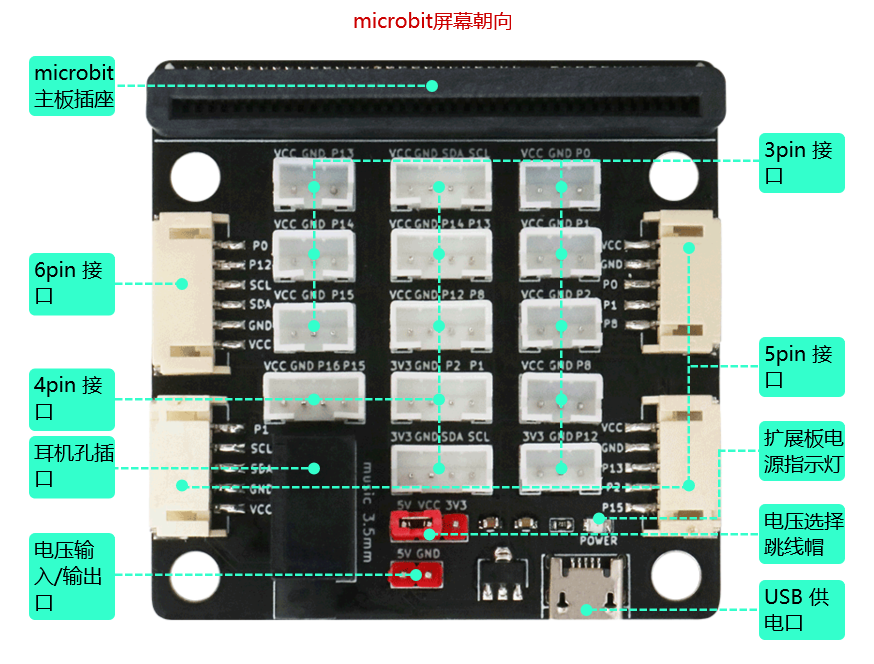
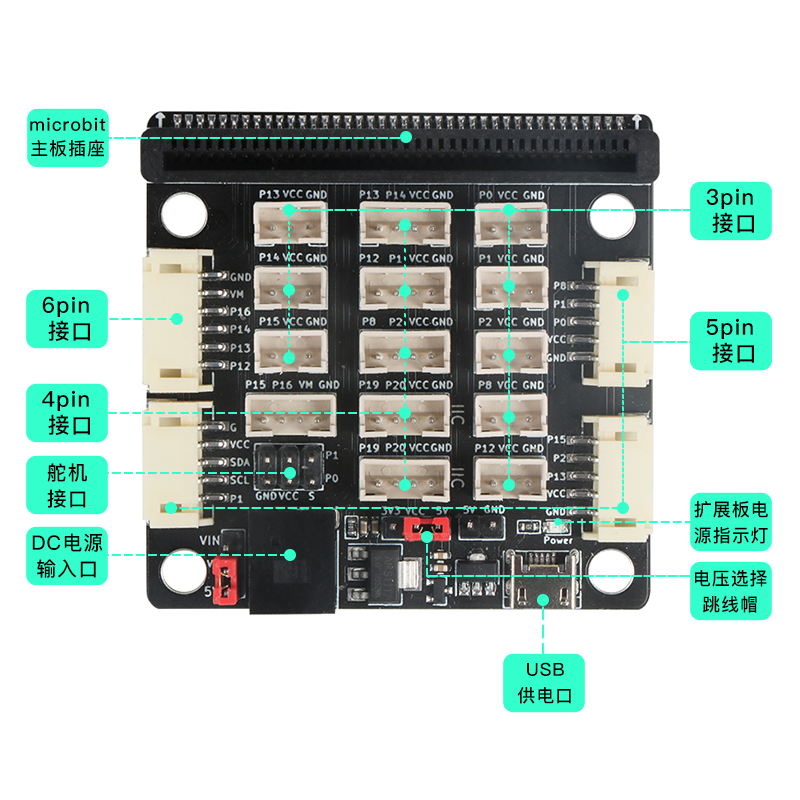
update sensorbit md

diff --git a/docs/micro_bit/sensorbit.md b/docs/micro_bit/sensorbit.md
@@ -1,6 +1,6 @@
 # Sensor:bit 简介
 
-什么是 Sensor:bit ？Sensor:bit 是一套为 Micro:bit 量身打造基于 PH2.0 接口的扩展板，Sensor:bit 扩展功能多样，包含八个 3pin 接口、六个 4pin 接口、三个 5pin 接口、一个 6pin 接口，对Micro:bit 可扩展接口进行了优化设计，使得 Sensor:bit 在 PH2.0 接口情况下可以连接更多的传感器。Sensor:bit 设计有一个  3.5mm 耳机插座，当把耳机插头插入、可以通过对音乐模块的编程收听歌曲。在电源设计方面，Sensor:bit 设计有两种供电方式：第一种是通过 micro usb 接口供电；另一种是通过连接在电源的杜邦线供电。Sensor:bit 设计有两种可选电压：5V 和 3V3，可以通过跳线帽选择不同的电压给扩展板接口供电。
+什么是 Sensor:bit ？Sensor:bit 是一套为 Micro:bit 量身打造基于 PH2.0 接口的扩展板，Sensor:bit 扩展功能多样，包含八个 3pin 接口、六个 4pin 接口、三个 5pin 接口、一个 6pin 接口，对Micro:bit 可扩展接口进行了优化设计，使得 Sensor:bit 在 PH2.0 接口情况下可以连接更多的传感器。在电源设计方面，Sensor:bit 设计有两种供电方式：第一种是通过 micro usb 接口供电；另一种是通过DC头供6-12V的电压。Sensor:bit 设计有两种可选电压：5V 和 3V3，可以通过跳线帽选择不同的电压给扩展板接口供电。
 
 ![sensorbit_and_microbit.png](sensorbit/sensorbit_and_microbit.png)
 
@@ -10,29 +10,29 @@
 - 圆孔直径：4.6mm（与乐高孔兼容）
 - 产品尺寸：56 / 56 / 12mm（裸板长宽高）
 - 净        重：23.1g
-- 输入电压：5V
+- 输入电压：5-12V
 - 输出电压：5V / 3.3V
 - 插接方式：立插
-- 耳机孔尺寸：3.5mm
 - 引脚口类型：PH2.0 接口 
 
 ## Sensor:bit 引脚介绍
 
 ![Sensorbit_face.png](sensorbit/sensorbit_face.png)
 
-- Sensor:bit 有8个3pin 接口、引出的 Micro:bit IO口分别为：P0、P1、P2、P8、P12、P13、P14、P15。其中只有 P0、P1、P2 引脚可以读取传感器模拟值。
-- Sensor:bit 设计有6个4pin 接口、引出的 Micro:bit IO口分别为：P1 和 P2、P8 和 P12、P13 和 P14、P15 和 P16、以及5V I2C 接口和3V3 I2C 接口（可以同时提供两种电压）。
+- Sensor:bit 有8个3pin 接口、引出的 Micro:bit IO口分别为：P0、P1、P2、P8、P12、P13、P14、P15。其中只有 P0、P1、P2 引脚为模拟口。
+- Sensor:bit 设计有6个4pin 接口、引出的 Micro:bit IO口分别为：P1 和 P12、P8 和 P2、P13 和 P14、P15 和 P16、以及两个I2C接口。
 - Sensor:bit 有3个5pin 接口、引出的 Micro:bit IO口分别为：P1、SCL和SDA；P2、P13 和 P15；P0、P1 和 P8。
-- Sensor:bit 有1个6pin 接口、引出的 Micro:bit IO口为：P0、P12、SCL 和 SDA。
+- Sensor:bit 有1个6pin 接口、引出的 Micro:bit IO口为：P12、P13、P14 和 P16。
 - 电压选择接口：当跳线帽连接 5V 与 VCC 引脚时、扩展板的引脚(VCC)输出电压为 5V；当跳线帽连接 3V3 与 VCC 引脚时、扩展板的引脚(VCC)输出电压为 3.3V。
 - 电压输出/输入接口：Sensor:bit 设计有一个多功能电压引脚，当采用 micro usb 接口供电时、该引脚可以输出 5V 为其它扩展板供电；另一方面、该引脚也可以通过杜邦线连接电源(5V)，为Sensor:bit 扩展板供电。<font color=red>**注意: 不能同时使用该接口与 micro usb 接口供电，以免造成损坏！**</font>
-- Micro:bit 主板设计有音乐类积木包和程序库，可以通过对 P0 引脚的编程播放音乐。Sensor:bit 的耳机孔连接在 Micro:bit 主板的 P0 引脚、当使用官方音乐积木库或音乐函数库时，把耳机插到 Sensor:bit 耳机孔，就可以在耳机内听到程序中设计的音乐。
 
 # Sensor:bit 与 PH2.0接口传感器
 
 Sensor:bit 是专为 Micro:bit 与各种传感器连接所设计的，对与 PH2.0 接口的 Sensor:bit 、设计有一套量身定做的 PH2.0接口传感器套件。传感器种类多样，按照其作用类型可分为四大类：输入模块、传感器、执行类、显示器。
 
-要支持如下micropython语法需要[下载最新固件](https://raw.githubusercontent.com/emakefun/emakefun-docs/master/docs/micro_bit/sensorbit/firmware.hex)到microbit
+要支持如下micropython语法需要下载最新固件到microbit
+[Microbit V1固件](http://www.emakefun.com/firmware/firmware_v1.hex)
+[Microbit V2固件](http://www.emakefun.com/firmware/firmware_v2.hex)
 
 ## 输入模块
 
